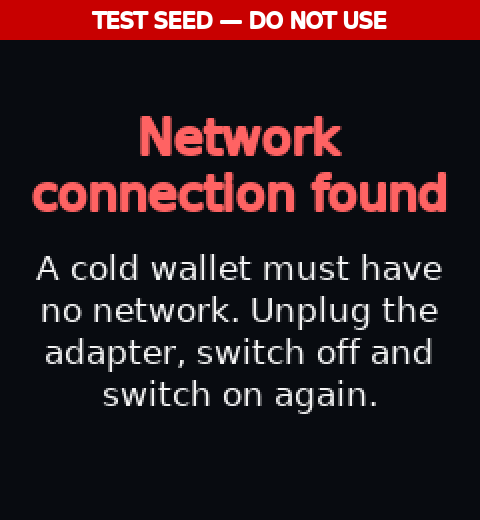
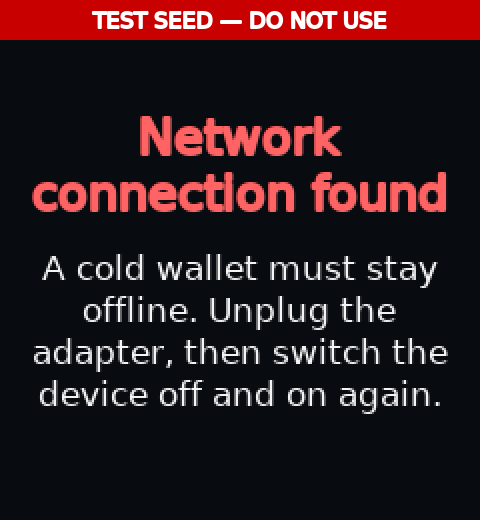
Review fixes: --lang never leaves the device dark, clearer English, honest illustration
--lang now accepts upper case and pt-BR, pt_br or br (also en-US, es-MX and
the like). An unknown value still stops the simulator with an error, but on
the device it falls back to Spanish: the systemd service hides errors and
does not restart, so stopping would leave the screen black. Both READMEs
say so. New tests for normalise_language and the device fallback; the
--lang test no longer depends on the machine it runs on.

Screen text: English network, not-random and warning bodies reworded;
"Fingerprint (descriptor only)"; "With zpub, check the address." and
"Con zpub, compara la dirección." now stay within their width; simulator
banner "SIMULATOR · TESTING ONLY · DO NOT USE WITH REAL FUNDS" and
"SÓ PARA TESTES" in Portuguese. The warning bodies were reworded so they
still fit in four lines above the help bar. Screenshots regenerated
(docs/capturas/19 and the changed en, es and pt screens).

Illustrations: the USB cable and its plug were removed by AI inpainting,
limited to the cable area, and the real simulator screenshot was placed
again. The burned-in label now leads with the AI notice ("AI illustration
· not a photograph · not to scale") and ends with the test-seed note; the
red band is gone. Captions say the device is not to scale and that the
screen area is a real simulator screenshot.

Changed region(s): [[0.0625, 0.4923, 0.9375, 0.8]]

diff --git a/coldwallet/ui/i18n.py b/coldwallet/ui/i18n.py
@@ -108,7 +108,7 @@ STRINGS: dict[str, dict[str, str]] = {
         "check.title": "Compara con tu iPhone",
         "check.first_address": "Primera dirección de cobro",
         "check.fingerprint": "Huella, si usaste el descriptor",
-        "check.zpub_note": "Con el zpub, compara la dirección.",
+        "check.zpub_note": "Con zpub, compara la dirección.",
         "check.help": "◀ volver al QR · Pulsa: terminar",
         # Fin.
         "end.title": "Apaga el aparato",
@@ -124,8 +124,8 @@ STRINGS: dict[str, dict[str, str]] = {
         "error.body": "Switch the device off and start again.",
         "network.title": "Network connection found",
         "network.body": (
-            "A cold wallet must have no network. Unplug the adapter, "
-            "switch off and switch on again."
+            "A cold wallet must stay offline. Unplug the adapter, "
+            "then switch the device off and on again."
         ),
         "reset.title": "Start over?",
         "reset.body": "Everything you have done will be erased.",
@@ -158,14 +158,14 @@ STRINGS: dict[str, dict[str, str]] = {
         "bad.face_share": "One face comes up in more than 30% of the rolls.",
         "bad.long_run": "Too many identical rolls in a row.",
         "bad.body": (
-            "Roll the die for real for every number. Correct the rolls or start "
+            "Actually roll the die for every number. Correct the rolls or start "
             "over with KEY2."
         ),
         "bad.help": "Press: back to the rolls",
         "warning.title": "Let no one see the screen",
         "warning.body": (
-            "Get paper and a pencil. You will see {n} words. "
-            "Then I will ask for each one, reading your paper."
+            "Get paper and a pencil to copy {n} words. "
+            "Then I will ask you for each one; answer from your paper."
         ),
         "warning.help": "Press: show the words",
         "phrase.title": "Words {first} to {last} of {total}",
@@ -197,14 +197,14 @@ STRINGS: dict[str, dict[str, str]] = {
         "qr.descriptor": "Descriptor · {fingerprint}",
         "check.title": "Compare with your iPhone",
         "check.first_address": "First receive address",
-        "check.fingerprint": "Fingerprint, with the descriptor",
-        "check.zpub_note": "With the zpub, check the address.",
+        "check.fingerprint": "Fingerprint (descriptor only)",
+        "check.zpub_note": "With zpub, check the address.",
         "check.help": "◀ back to the QR · Press: finish",
         "end.title": "Switch the device off",
         "end.body": "The seed is erased when the power is removed.",
         "end.paper": "Keep the paper with the rolls as safe as the phrase, or destroy it.",
         "sim.title": "Cold wallet · simulator",
-        "sim.banner": "SIMULATOR · TESTS ONLY · DO NOT USE WITH MONEY",
+        "sim.banner": "SIMULATOR · TESTING ONLY · DO NOT USE WITH REAL FUNDS",
         "shots.band": "TEST SEED — DO NOT USE",
     },
     "pt": {
@@ -252,8 +252,8 @@ STRINGS: dict[str, dict[str, str]] = {
         "bad.help": "Aperte: voltar às jogadas",
         "warning.title": "Que ninguém veja a tela",
         "warning.body": (
-            "Tenha papel e lápis à mão. Você vai ver {n} palavras. "
-            "Depois vou perguntar todas, olhando seu papel."
+            "Pegue papel e lápis. Você vai ver {n} palavras. "
+            "Depois vou pedir cada uma; responda olhando o papel."
         ),
         "warning.help": "Aperte: ver as palavras",
         "phrase.title": "Palavras {first} a {last} de {total}",
@@ -292,7 +292,7 @@ STRINGS: dict[str, dict[str, str]] = {
         "end.body": "A semente é apagada quando a energia é cortada.",
         "end.paper": "Guarde o papel das jogadas como a frase, ou destrua-o.",
         "sim.title": "Carteira fria · simulador",
-        "sim.banner": "SIMULADOR · SÓ TESTES · NÃO USE COM DINHEIRO",
+        "sim.banner": "SIMULADOR · SÓ PARA TESTES · NÃO USE COM DINHEIRO",
         "shots.band": "SEMENTE DE TESTE — NÃO USE",
     },
 }
@@ -311,6 +311,19 @@ def check_language(lang: str) -> str:
     if lang not in STRINGS:
         raise ValueError("Idioma desconocido. Usa en, es o pt.")
     return lang
+
+
+def normalise_language(value: str) -> str | None:
+    """Lee lo que se escribe en --lang: «EN», «pt-BR», «pt_br», «br», «es-MX»…
+
+    Devuelve en, es o pt, o None si no reconoce el idioma. «br» y cualquier
+    variante de pt van al portugués de Brasil, que es el único portugués que hay.
+    """
+    tag = value.strip().lower().replace("_", "-")
+    if tag == "br":
+        return "pt"
+    base = tag.split("-", 1)[0]
+    return base if base in STRINGS else None
 
 
 def t(key: str, lang: str = DEFAULT_LANGUAGE, **values: object) -> str:

diff --git a/tests/test_i18n.py b/tests/test_i18n.py
@@ -75,6 +75,15 @@ def test_unknown_language_is_rejected():
         i18n.t("no.existe", "en")
 
 
+@pytest.mark.parametrize("value, expected", [
+    ("en", "en"), ("EN", "en"), (" es ", "es"), ("pt", "pt"), ("PT", "pt"),
+    ("pt-BR", "pt"), ("pt_br", "pt"), ("br", "pt"), ("BR", "pt"), ("en-US", "en"),
+    ("es_MX", "es"), ("fr", None), ("", None), ("english", None), ("e", None),
+])
+def test_normalise_language(value, expected):
+    assert i18n.normalise_language(value) == expected
+
+
 def test_core_rolls_problems_are_all_translated():
     """Los dos avisos del núcleo tienen traducción; en español quedan igual."""
     messages = {
@@ -463,18 +472,37 @@ def test_main_lang_option(monkeypatch):
     import sim
     from coldwallet import hw
 
+    # Que la batería dé lo mismo en el Mac y en la propia Raspberry.
+    monkeypatch.setattr(main, "on_raspberry_pi", lambda: False)
     assert main.parse_args(["--hw"]).lang == "es"  # el servicio de systemd no lo pasa
     assert main.parse_args(["--sim", "--lang", "pt"]).lang == "pt"
     assert main.parse_args(["--lang=en", "--otro"]).lang == "en"
-    with pytest.raises(SystemExit), contextlib.redirect_stderr(io.StringIO()):
-        main.parse_args(["--lang", "fr"])
+    assert main.parse_args(["--sim", "--lang", "EN"]).lang == "en"
+    assert main.parse_args(["--hw", "--lang", "pt-BR"]).lang == "pt"
+    assert main.parse_args(["--hw", "--lang=pt_br"]).lang == "pt"
+    assert main.parse_args(["--hw", "--lang", "br"]).lang == "pt"
+    # Fuera del aparato, con un idioma desconocido el programa se para con un error.
+    for argv in (["--lang", "fr"], ["--sim", "--lang", "fr"]):
+        stderr = io.StringIO()
+        with pytest.raises(SystemExit) as stop, contextlib.redirect_stderr(stderr):
+            main.parse_args(argv)
+        assert stop.value.code == 2 and "use en, es or pt" in stderr.getvalue()
+    # En el aparato no: sale en español en vez de dejar la pantalla en negro.
+    assert main.parse_args(["--hw", "--lang", "fr"]).lang == "es"
+    monkeypatch.setattr(main, "on_raspberry_pi", lambda: True)
+    assert main.parse_args(["--lang", "fr"]).lang == "es"
+    assert main.parse_args(["--lang", "EN"]).use_hw
+    monkeypatch.setattr(main, "on_raspberry_pi", lambda: False)
     calls = []
     monkeypatch.setattr(hw, "run", lambda lang="es": calls.append(("hw", lang)))
     monkeypatch.setattr(sim, "run", lambda lang="es": calls.append(("sim", lang)))
     main.main(["--hw"])
     main.main(["--hw", "--lang", "en"])
     main.main(["--sim", "--lang", "pt"])
-    assert calls == [("hw", "es"), ("hw", "en"), ("sim", "pt")]
+    main.main(["--hw", "--lang", "EN"])
+    main.main(["--hw", "--lang", "klingon"])
+    main.main(["--sim", "--lang", "pt-BR"])
+    assert calls == [("hw", "es"), ("hw", "en"), ("sim", "pt"), ("hw", "en"), ("hw", "es"), ("sim", "pt")]
 
 
 def test_hw_run_shows_the_chosen_language(monkeypatch):

diff --git a/main.py b/main.py
@@ -3,7 +3,10 @@
 Uso: python main.py [--sim | --hw] [--lang en|es|pt]
 
 --lang elige el idioma de la pantalla. Por defecto es español (es), así que el
-servicio de systemd, que no lo pasa, sigue igual que antes.
+servicio de systemd, que no lo pasa, sigue igual que antes. Da igual escribirlo
+en mayúsculas o minúsculas, y pt-BR, pt_br o br son el portugués de Brasil. Con
+un idioma desconocido, el simulador se para con un error y el aparato sale en
+español: si se parase, la pantalla se quedaría en negro y sin ningún aviso.
 """
 
 from __future__ import annotations
@@ -28,17 +31,26 @@ def parse_args(argv: list[str]) -> argparse.Namespace:
     parser.add_argument("--sim", action="store_true", help="simulador en el Mac")
     parser.add_argument("--hw", action="store_true", help="pantalla y botones de la Raspberry")
     parser.add_argument(
-        "--lang", choices=i18n.LANGUAGES, default=i18n.DEFAULT_LANGUAGE,
-        help="idioma de la pantalla (por defecto, es)",
+        "--lang", default=i18n.DEFAULT_LANGUAGE, metavar="{en,es,pt}",
+        help="idioma de la pantalla (por defecto, es); también vale EN, pt-BR, pt_br o br",
     )
     # Como antes, cualquier otro argumento se ignora.
     args, _unknown = parser.parse_known_args(argv)
+    args.use_hw = args.hw or (not args.sim and on_raspberry_pi())
+    lang = i18n.normalise_language(args.lang)
+    if lang is None:
+        if not args.use_hw:
+            parser.error(f"argument --lang: unknown language {args.lang!r} (use en, es or pt)")
+        # En el aparato no se para: el servicio no enseña los errores ni se
+        # reinicia, así que la pantalla se quedaría en negro. Sale en español.
+        lang = i18n.DEFAULT_LANGUAGE
+    args.lang = lang
     return args
 
 
 def main(argv: list[str]) -> None:
     args = parse_args(argv)
-    if args.hw or (not args.sim and on_raspberry_pi()):
+    if args.use_hw:
         from coldwallet import hw
 
         hw.run(args.lang)

diff --git a/README.md b/README.md
@@ -8,10 +8,11 @@
 > - If you build it or use it, **you do so at your own risk**. The software comes with no warranty (see [LICENSE](LICENSE)).
 > - Do not put real savings on a wallet made with it until the code has been reviewed and the device has been tested on the hardware.
 
-![Concept illustration: two hands hold a Raspberry Pi Zero with the Waveshare 1.3-inch LCD HAT on top, next to a die and a sheet of paper. The screen shows the dice entry screen at 37 of 99 rolls.](docs/images/prototype-in-hand-en.jpg)
+![Concept illustration: two hands hold a Raspberry Pi Zero with the Waveshare 1.3-inch LCD HAT on top, next to a die and a sheet of paper. The display shows the dice entry screen at 37 of 99 rolls.](docs/images/prototype-in-hand-en.jpg)
 
-*AI-generated illustration of how the prototype could look. Not a photograph: the prototype has never run on hardware. The
-screen shows a real screenshot from the simulator, with the public test rolls.*
+*AI-generated illustration of how the prototype could look. Not a photograph: the prototype has never run on a real
+Raspberry Pi Zero. The screen area is a real simulator screenshot, made with the public test rolls. Not to scale: the real
+board is 65 x 30 mm and the screen is 1.3 inches.*
 
 A do-it-yourself cold wallet for a Raspberry Pi Zero v1.3 (the version without Wi-Fi or Bluetooth) with a Waveshare
 1.3inch LCD HAT. It has no network and no memory: you switch it on, use it once and switch it off.
@@ -39,6 +40,8 @@ Choose the language with `--lang en`, `--lang es` or `--lang pt`. Spanish is the
 
 On the Pi, add `--lang en` (or `--lang pt`) at the end of the `ExecStart` line in
 [`deploy/cartera-fria.service`](deploy/cartera-fria.service) before you install the unit. Without it the device shows Spanish.
+Upper or lower case both work, and `pt-BR`, `pt_br` or `br` also mean Brazilian Portuguese. With any other value the simulator
+stops with an error, and the device shows Spanish instead, so that its screen is never left dark.
 
 All 26 screens in each language, made with the test rolls and carrying the test-seed band:
 [English](docs/screenshots/en/) · [Spanish](docs/screenshots/es/) · [Brazilian Portuguese](docs/screenshots/pt/).
@@ -83,7 +86,7 @@ safely as the phrase, or destroy it.
 
 **Checked in software (16 Nov 2026):**
 
-- 435 automated tests pass.
+- 450 automated tests pass.
 - Official test vectors: BIP39, BIP32, BIP84 (including the multipath descriptor), BIP173 (address) and the descriptor
   checksum (BIP-380).
 - SeedSigner's two published dice examples (24 and 12 words, from its `docs/dice_verification.md`) give the same words,
@@ -132,7 +135,7 @@ cd dice-cold-wallet
 python3.11 -m venv .venv
 .venv/bin/pip install -r requirements-dev.txt
 
-.venv/bin/pytest -q                    # the whole test suite (435 tests, about two minutes)
+.venv/bin/pytest -q                    # the whole test suite (450 tests, about two minutes)
 .venv/bin/python main.py --sim         # the simulator (add --lang en or --lang pt to change the language)
 .venv/bin/python scripts/capturas.py   # regenerates the screenshots in docs/capturas/
 .venv/bin/python scripts/capturas.py --lang all   # regenerates docs/screenshots/en/, es/ and pt/
@@ -140,8 +143,8 @@ python3.11 -m venv .venv
 
 Simulator keys: arrow keys = joystick, Enter = press the joystick, `1`, `2`, `3` = KEY1, KEY2, KEY3.
 
-The simulator always shows a red band on top, in the screen's language: *SIMULATOR · TESTS ONLY · DO NOT USE WITH MONEY*
-with `--lang en`, *SIMULADOR · SOLO PRUEBAS · NO USAR CON DINERO* by default. A computer with a network is not a cold
+The simulator always shows a red band on top, in the screen's language: *SIMULATOR · TESTING ONLY · DO NOT USE WITH REAL
+FUNDS* with `--lang en`, *SIMULADOR · SOLO PRUEBAS · NO USAR CON DINERO* by default. A computer with a network is not a cold
 wallet. Use the simulator only with the test rolls below.
 
 ### Test rolls

diff --git a/README.es.md b/README.es.md
@@ -13,8 +13,10 @@
 ![Ilustración conceptual: dos manos sujetan una Raspberry Pi Zero con la pantalla Waveshare 1.3" LCD HAT encima, junto a un dado y una hoja de papel. En la pantalla, la entrada de tiradas en 37 de 99.](docs/images/prototype-in-hand-es.jpg)
 
 *Ilustración generada con IA de cómo podría verse el prototipo. No es una
-fotografía: el prototipo nunca ha funcionado en una Raspberry de verdad. La
-pantalla es una captura real del simulador, con las tiradas de prueba públicas.*
+fotografía: el prototipo nunca ha funcionado en una Raspberry Pi Zero de
+verdad. La zona de la pantalla es una captura real del simulador, hecha con las
+tiradas de prueba públicas. No está a escala: la placa real mide 65 × 30 mm y
+la pantalla, 1,3 pulgadas.*
 
 English: [README.md](README.md) · Guía paso a paso (en inglés):
 https://knowingbitcoin.com/build-your-own-cold-wallet-from-dice/
@@ -43,6 +45,10 @@ sale en español.
 En la Raspberry, añade `--lang en` (o `--lang pt`) al final de la línea
 `ExecStart` de [`deploy/cartera-fria.service`](deploy/cartera-fria.service)
 antes de instalar el servicio (paso 9). Sin él, el aparato sale en español.
+Da igual escribirlo en mayúsculas o en minúsculas, y `pt-BR`, `pt_br` o `br`
+también valen para el portugués de Brasil. Con cualquier otro valor, el
+simulador se para con un error y el aparato sale en español, para que su
+pantalla no se quede nunca en negro.
 
 Las 26 pantallas de cada idioma, hechas con las tiradas de prueba y con la
 franja de semilla de prueba:
